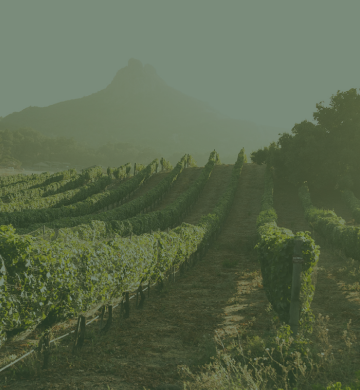
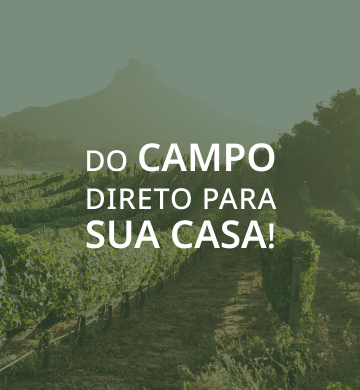
HTML + CSS Inicial
Desenvolvimento do HTML
CSS do menu e do banner com parallax

Changed region(s): [[0.2444, 0.3692, 0.7639, 0.6462]]

diff --git a/index.html b/index.html
@@ -1,0 +1,81 @@
+<!DOCTYPE html>
+<html lang="pt-br">
+<head>
+    <meta charset="UTF-8">
+    <meta http-equiv="X-UA-Compatible" content="IE=edge">
+    <meta name="viewport" content="width=device-width, initial-scale=1.0">
+    <title>Helgud</title>
+    <link rel="shortcut icon" href="imagens/favicon.ico" type="image/x-icon">
+    <link rel="stylesheet" href="estilos/style.css">
+
+</head>
+<body>
+    <nav>
+        <a href="#">INÍCIO</a>
+        <a href="#">SOBRE</a>
+        <a href="#">COMPRAR</a>
+        <a href="#">BLOG</a>
+    </nav>
+    
+    <main>
+        <div id="banner-1"><img id="banner-texto" src="imagens/bg-1-pc-texto.png" alt=""></div>
+    
+       
+
+        <div id="atributos">
+            <img src="imagens/orange.png" alt="ícone de laranja">
+            <p id="título-atributos">COM FRUTAS 100% NATURAIS</p>
+            <p id="texto-meio-atributos">Colhidas diretamente da fazenda do Sr. Otaviano.<br>
+            Sem conservantes, aditivos, corantes ou aromas artificiais.</p>
+            <p id="texto-final-atributos">Mais saúde e qualidade para você e sua família!</p>
+        </div>
+
+        <div id="banner-2">
+            <img src="imagens/bg-2-pc.png" alt="sucos dispostos em fileira">
+        </div>
+        
+        <section id="produtos">
+            <div class="linhas">
+
+                <div id="retangulo-1">
+                    <img src="imagens/kiwi-pc.png" alt="suco de kiwi">
+                    <button class="botao">COMPRAR</button>
+                </div>
+
+                <div id="retangulo-2">
+                    <img src="imagens/laranja-pc.png" alt="suco de laranja">
+                    <button class="botao">COMPRAR</button>
+                </div>
+
+                <div id="retangulo-3">
+                    <img src="imagens/manga-pc.png" alt="suco de manga">
+                    <button class="botao">COMPRAR</button>
+                </div>
+
+                <div id="retangulo-4">
+                    <img src="imagens/melancia-pc.png" alt="suco de melancia">
+                    <button class="botao">COMPRAR</button>
+                </div>
+
+                <div id="retangulo-5">
+                    <img src="imagens/morango-pc.png" alt="suco de morango">
+                    <button class="botao">COMPRAR</button>
+                </div>
+
+                <div id="retangulo-6">
+                    <img src="imagens/uva-pc.png" alt="suco de uva">
+                    <button class="botao">COMPRAR</button>
+                </div>
+
+            </div>
+        </section>
+
+        <footer>
+            <a href="#">FALE CONOSCO</a>
+            <a href="#">SUPORTE</a>
+            <a href="#">INSTITUCIONAL</a>
+        </footer>
+
+    </main>
+</body>
+</html>

diff --git a/estilos/style.css b/estilos/style.css
@@ -1,0 +1,57 @@
+@charset "UTF-8";
+@import url('https://fonts.googleapis.com/css2?family=Noto+Sans:wght@400;500;600;700&display=swap');
+
+*{
+    margin: 0px;
+    padding: 0px;
+    text-decoration: 0px;
+}
+
+nav{
+    background-color: black;
+    border-bottom-left-radius: 15px;
+    border-bottom-right-radius: 15px;
+    height: 80px;
+    width: 100%;
+    display: flex;
+    align-items: center;
+    justify-content: center;
+    overflow: hidden;
+    position: fixed;
+}
+
+nav>a{
+    padding: 30px;
+    color: white;
+    font-family: 'Noto Sans', sans-serif;
+    font-style: normal;
+    font-weight: 400;
+    font-size: 21;
+    line-height: 28px;    
+}
+
+nav>a:hover{
+    font-family: 'Noto Sans', sans-serif;
+    font-weight: 800; 
+}
+
+nav:hover{
+    background-color: #294B2B;
+    transition-duration: .5s;
+}
+
+#banner-1{
+    width: 100%;
+    height: 780px;
+    background-image: url(../imagens/bg-1-pc-fundo.png);
+    background-attachment: fixed;
+    background-repeat: no-repeat;
+    background-size: cover;
+}
+
+#banner-texto{
+    display: block;
+    margin-left: auto;
+    margin-right: auto;
+    padding: 250px;
+}
